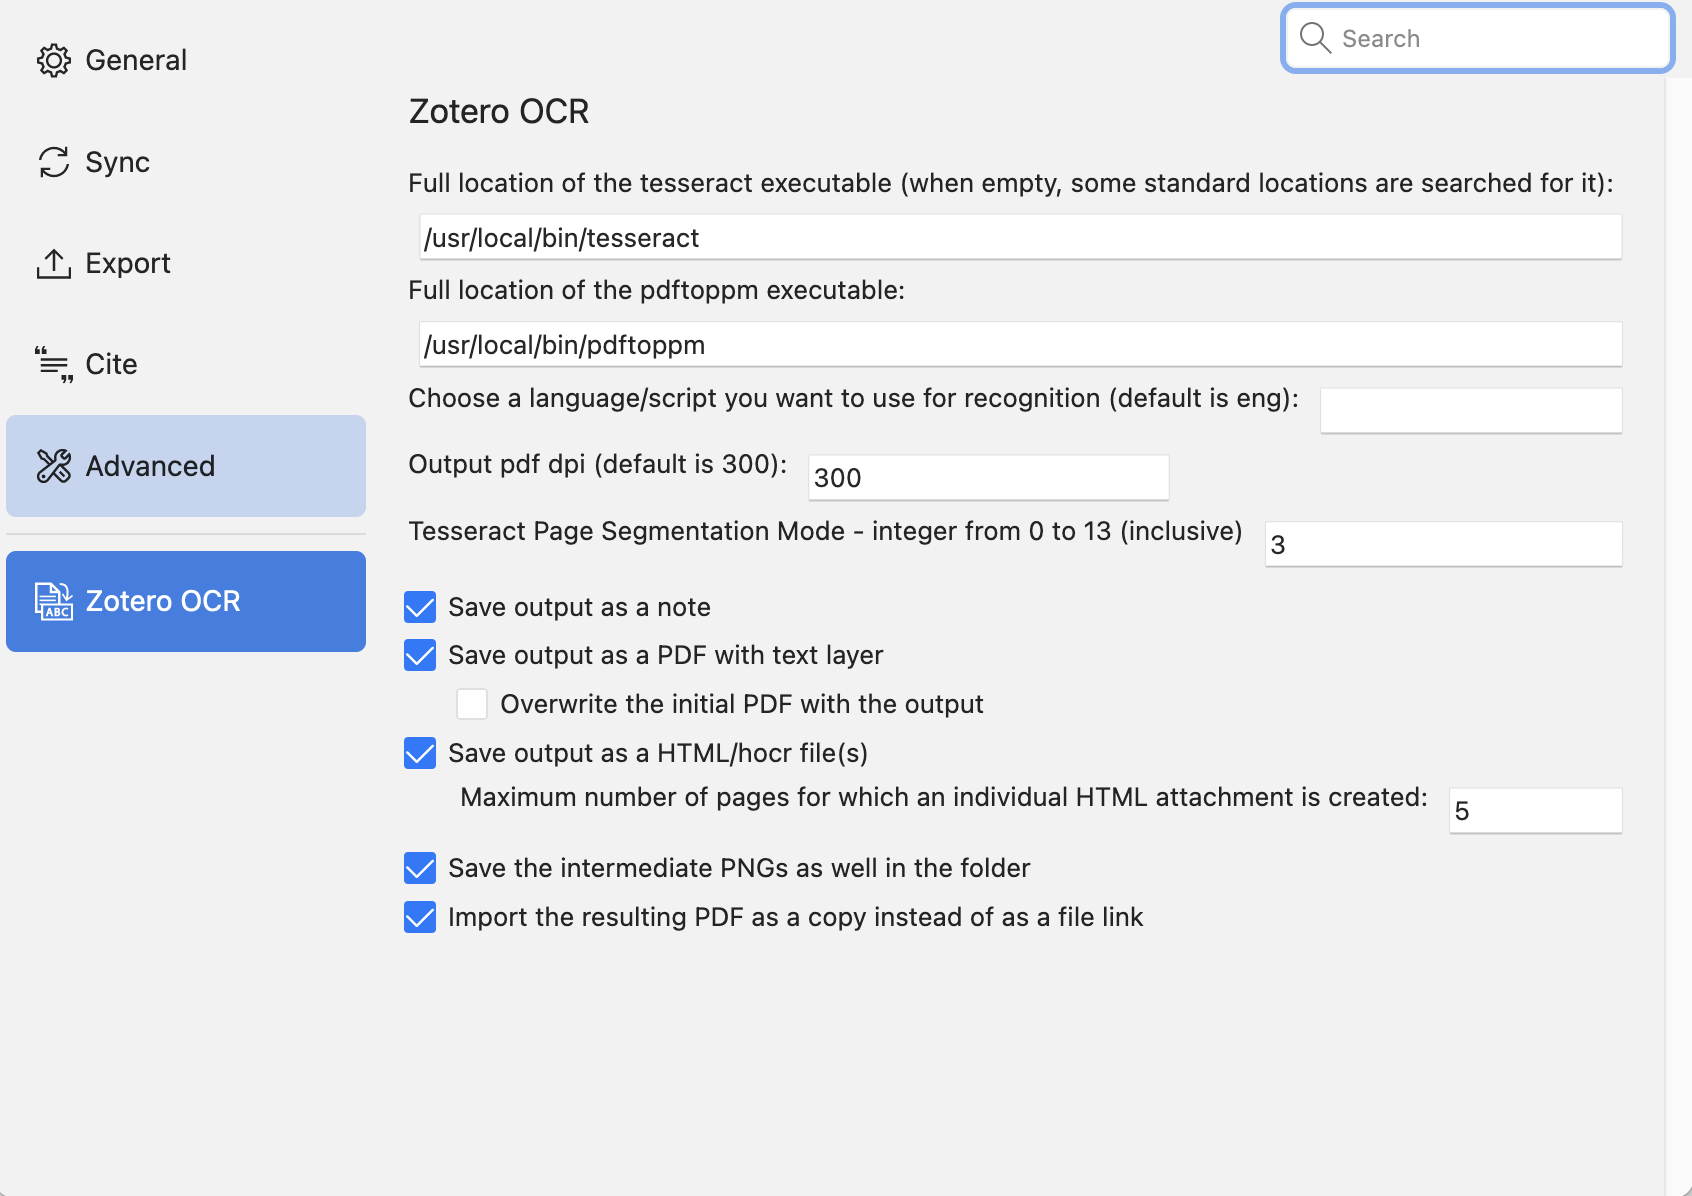
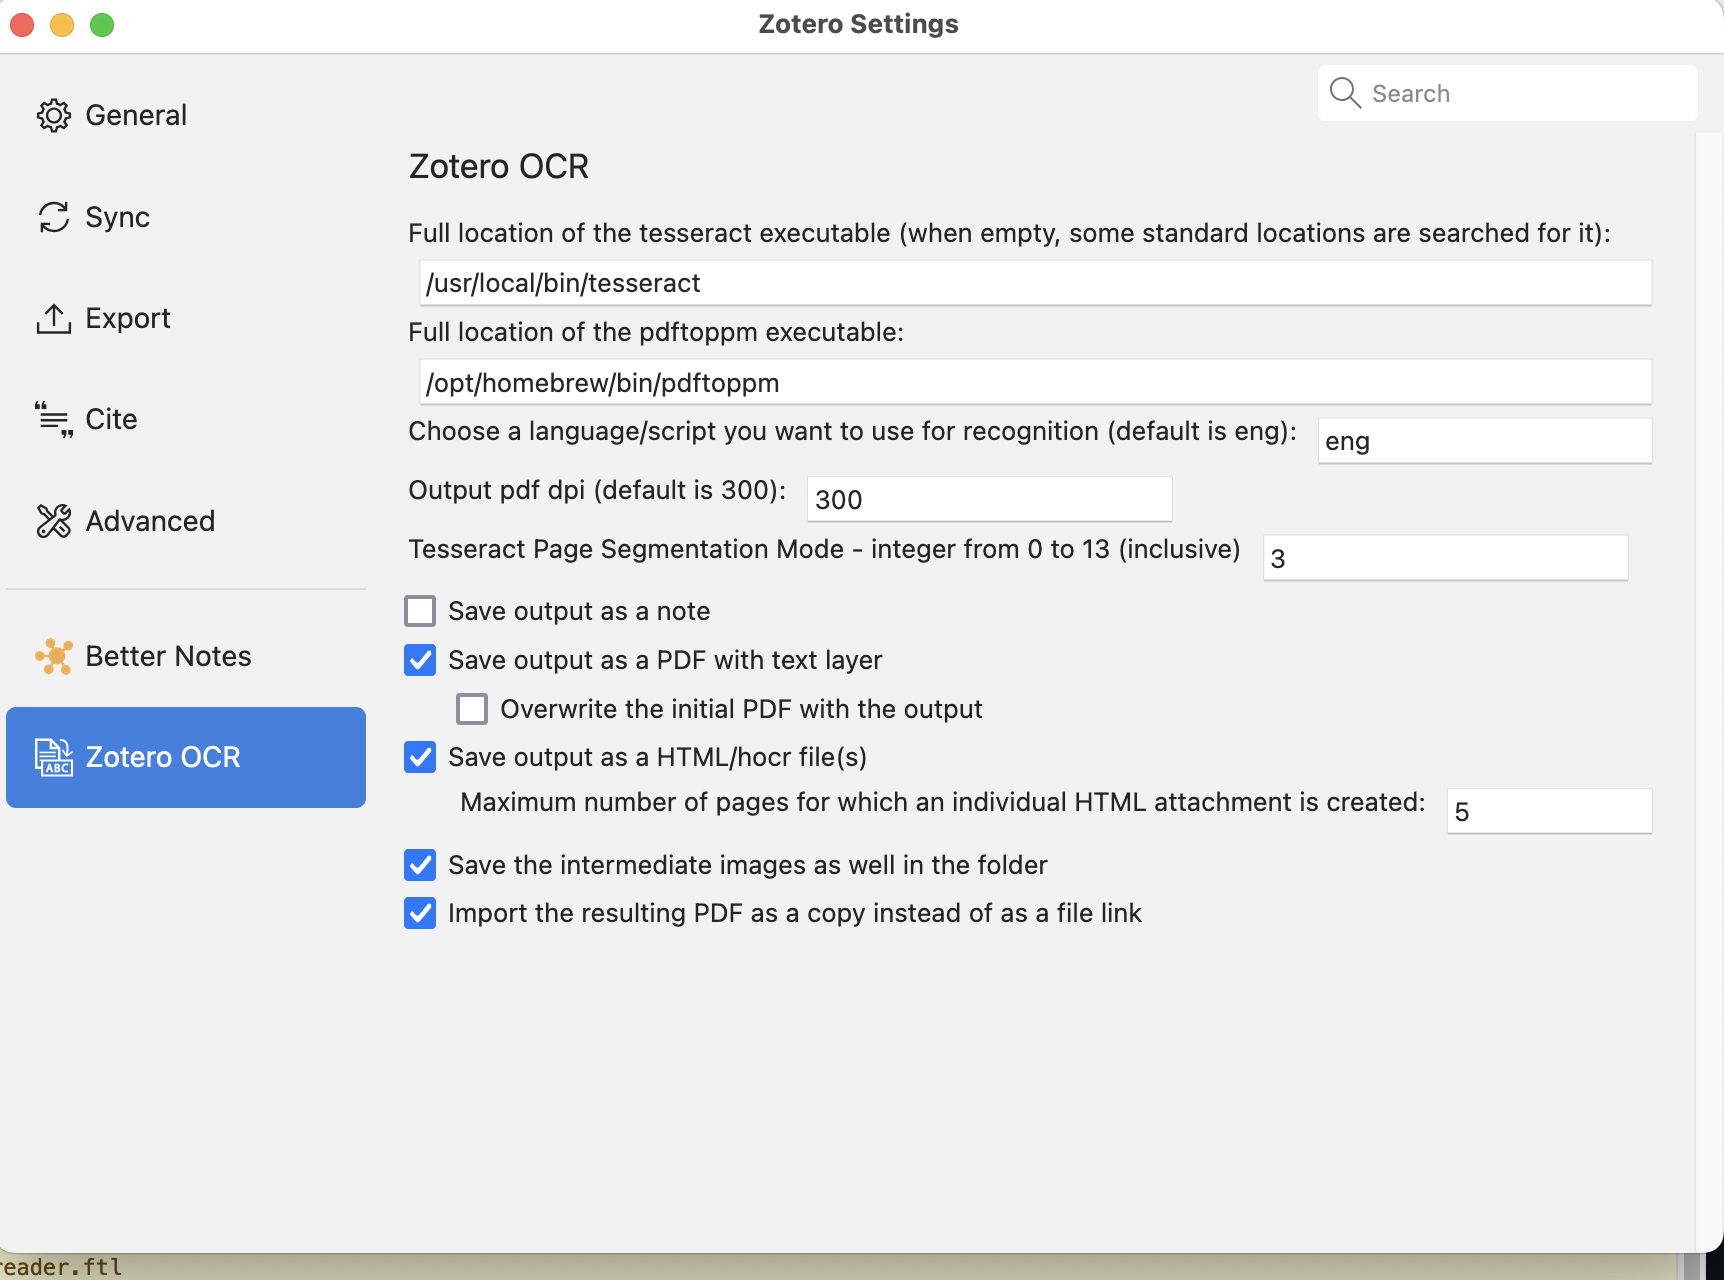
Use JPEG instead of PNG as intermediate format (#89)

diff --git a/src/zotero-ocr.js b/src/zotero-ocr.js
@@ -171,11 +171,30 @@ ZoteroOCR = {
             let ocrbase = Zotero.Prefs.get("zoteroocr.overwritePDF") ? base : base + '.ocr';
             // TODO filter out PDFs which have already a text layer
 
+            // build the pdftoppm arguments based on hidden preferences:
+            // => will produce a PDF output with reasonable size and image quality
+            // File format: JPEG by default instead of PNG
+            // JPEG quality 70/100 (pdftoppm default is 75)
+            // JPEG Hufmann tables optimization: yes (pdftoppm default is no)
+            // Use progressive JPEG: yes (pdftoppm default is no)
+            let imageFormat = Zotero.Prefs.get("zoteroocr.imageFormat");
+            let pdftoppmCmdArgs;
+            if (imageFormat == "jpg" || imageFormat == "jpeg") {
+                imageFormat = "jpg";
+                let jpegQuality = Zotero.Prefs.get("zoteroocr.jpegQuality");
+                let jpegProgressive = Zotero.Prefs.get("zoteroocr.jpegProgressive");
+                let jpegOptimization = Zotero.Prefs.get("zoteroocr.jpegOptimization");
+                pdftoppmCmdArgs = ['-jpeg', '-jpegopt', 'quality='+jpegQuality+',progressive='+jpegProgressive+',optimize='+jpegOptimization, '-r', Zotero.Prefs.get("zoteroocr.outputDPI"), pdf, dir + '/page'];
+
+            } else {
+                imageFormat = "png";
+                pdftoppmCmdArgs = ['-png', '-r', Zotero.Prefs.get("zoteroocr.outputDPI"), pdf, dir + '/page'];
+            }
+
             // extract images from PDF
             let imageList = PathUtils.join(dir, 'image-list.txt');
             if (!(await IOUtils.exists(imageList))) {
                 try {
-                    let pdftoppmCmdArgs = ['-png', '-r', Zotero.Prefs.get("zoteroocr.outputDPI"), pdf, dir + '/page'];
                     Zotero.debug("Running " + pdftoppm + ' ' + pdftoppmCmdArgs.join(' '));
                     await Zotero.Utilities.Internal.exec(pdftoppm, pdftoppmCmdArgs);
                 }
@@ -189,8 +208,14 @@ ZoteroOCR = {
                     (entries) => {
                         for (const entry of entries) {
                             Zotero.debug('IOutils.getChildren() ran', entry);
-                            if (entry.match(/-\d+\.png$/)) {
-                                        imageListArray.push(entry);
+                            if (imageFormat == "jpg") {
+                                if (entry.match(/-\d+\.jpg$/)) {
+                                    imageListArray.push(entry);
+                                }
+                            } else {
+                                if (entry.match(/-\d+\.png$/)) {
+                                    imageListArray.push(entry);
+                                }
                             }
                         }
                         Zotero.debug('Files are now:')

diff --git a/src/chrome/content/zoteroocr.js b/src/chrome/content/zoteroocr.js
@@ -133,6 +133,26 @@ Zotero.OCR = new function() {
 			let ocrbase = Zotero.Prefs.get("zoteroocr.overwritePDF") ? base : base + '.ocr';
 			// TODO filter out PDFs which have already a text layer
 
+			// build the pdftoppm arguments based on hidden preferences:
+            // => will produce a PDF output with reasonable size and image quality
+            // File format: JPEG by default instead of PNG
+            // JPEG quality 70/100 (pdftoppm default is 75)
+            // JPEG Hufmann tables optimization: yes (pdftoppm default is no)
+            // Use progressive JPEG: yes (pdftoppm default is no)
+            let imageFormat = Zotero.Prefs.get("zoteroocr.imageFormat");
+            let pdftoppmCmdArgs;
+            if (imageFormat == "jpg" || imageFormat == "jpeg") {
+                imageFormat = "jpg";
+                let jpegQuality = Zotero.Prefs.get("zoteroocr.jpegQuality");
+                let jpegProgressive = Zotero.Prefs.get("zoteroocr.jpegProgressive");
+                let jpegOptimization = Zotero.Prefs.get("zoteroocr.jpegOptimization");
+                pdftoppmCmdArgs = ['-jpeg', '-jpegopt', 'quality='+jpegQuality+',progressive='+jpegProgressive+',optimize='+jpegOptimization, '-r', Zotero.Prefs.get("zoteroocr.outputDPI"), pdf, dir + '/page'];
+
+            } else {
+                imageFormat = "png";
+                pdftoppmCmdArgs = ['-png', '-r', Zotero.Prefs.get("zoteroocr.outputDPI"), pdf, dir + '/page'];
+            }
+
 			// extract images from PDF
 			let imageList = OS.Path.join(dir, 'image-list.txt');
 			if (!(yield OS.File.exists(imageList))) {
@@ -141,7 +161,6 @@ Zotero.OCR = new function() {
 					Zotero.debug("Running " + pdfinfo + ' ' + pdfinfoCmdArgs.join(' '));
 					yield Zotero.Utilities.Internal.exec(pdfinfo, pdfinfoCmdArgs);
 
-					let pdftoppmCmdArgs = ['-png', '-r', Zotero.Prefs.get("zoteroocr.outputDPI"), pdf, dir + '/page'];
 					Zotero.debug("Running " + pdftoppm + ' ' + pdftoppmCmdArgs.join(' '));
 					yield Zotero.Utilities.Internal.exec(pdftoppm, pdftoppmCmdArgs);
 				}
@@ -154,7 +173,11 @@ Zotero.OCR = new function() {
 				var imageListArray = [];
 				for (let i = 1; i <= parseInt(numPages, 10); i++) {
 					let paddedIndex = "0".repeat(numPages.length) + i;
-					imageListArray.push(dir + '/page-' + paddedIndex.substr(-numPages.length) + '.png');
+					if (imageFormat == "jpg") {
+						imageListArray.push(dir + '/page-' + paddedIndex.substr(-numPages.length) + '.jpg');
+					} else {
+						imageListArray.push(dir + '/page-' + paddedIndex.substr(-numPages.length) + '.png');
+					}
 				}
 				Zotero.File.putContents(Zotero.File.pathToFile(imageList), imageListArray.join('\n'));
 			}

diff --git a/src/defaults/preferences/defaults.js b/src/defaults/preferences/defaults.js
@@ -9,3 +9,9 @@ pref("extensions.zotero.zoteroocr.maximumPagesAsHtml", "5");
 pref("extensions.zotero.zoteroocr.outputDPI", "300");
 pref("extensions.zotero.zoteroocr.PSMMode", "3");
 pref("extensions.zotero.zoteroocr.outputAsCopyAttachment", true);
+// Hidden pdftoppm preferences
+pref("extensions.zotero.zoteroocr.imageFormat", "jpg");
+pref("extensions.zotero.zoteroocr.jpegQuality", "70");
+pref("extensions.zotero.zoteroocr.jpegProgressive", "y");
+pref("extensions.zotero.zoteroocr.jpegOptimization", "y");
+

diff --git a/src/prefs.js b/src/prefs.js
@@ -9,3 +9,9 @@ pref("extensions.zotero.zoteroocr.maximumPagesAsHtml", "5");
 pref("extensions.zotero.zoteroocr.outputDPI", "300");
 pref("extensions.zotero.zoteroocr.PSMMode", "3");
 pref("extensions.zotero.zoteroocr.outputAsCopyAttachment", true);
+// Hidden pdftoppm preferences
+pref("extensions.zotero.zoteroocr.imageFormat", "jpg");
+pref("extensions.zotero.zoteroocr.jpegQuality", "70");
+pref("extensions.zotero.zoteroocr.jpegProgressive", "y");
+pref("extensions.zotero.zoteroocr.jpegOptimization", "y");
+
